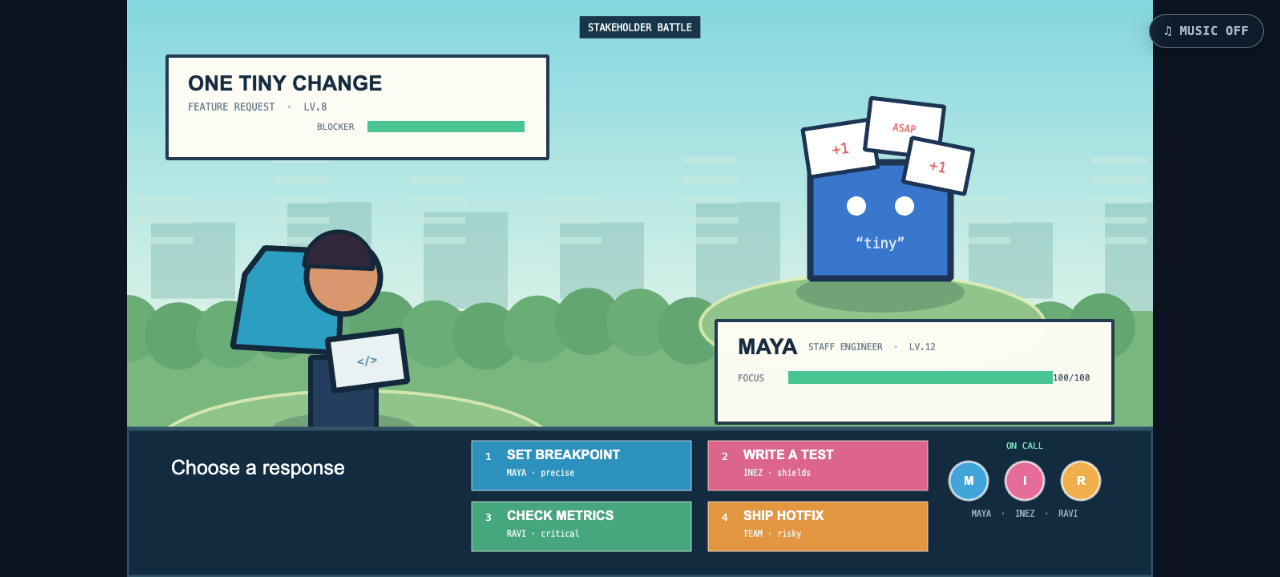
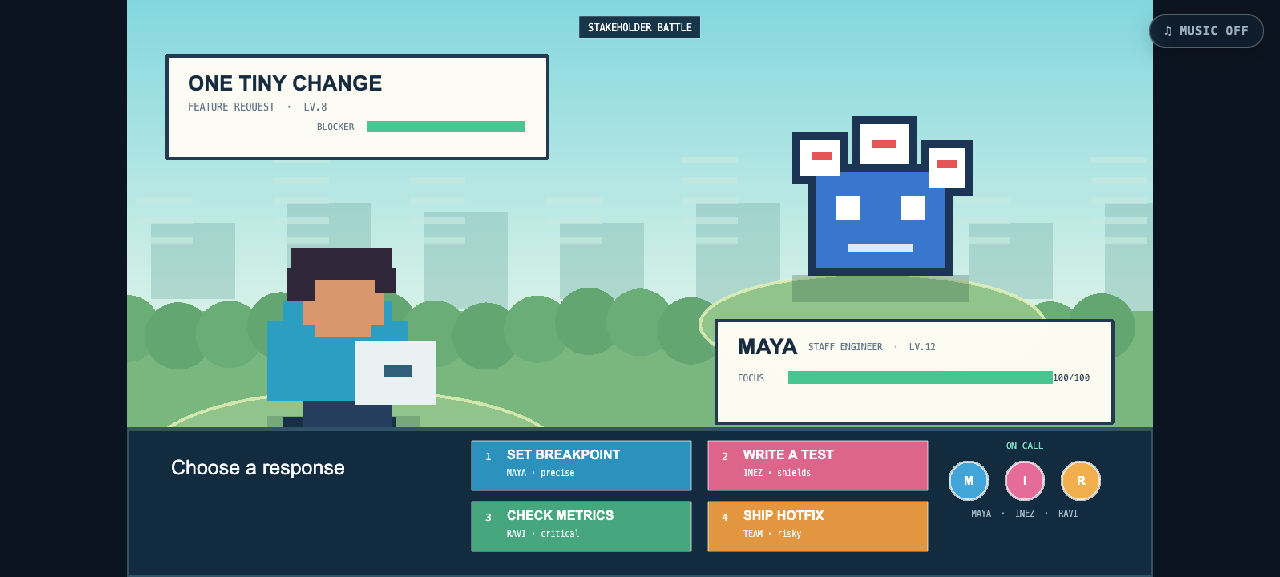
Rework game art in pixel RPG style

diff --git a/sw-rpg/src/main.ts b/sw-rpg/src/main.ts
@@ -126,25 +126,55 @@ function addPill(scene: Phaser.Scene, x: number, y: number, label: string, fill:
 function createTextures(scene: Phaser.Scene) {
   if (scene.textures.exists('hero')) return;
   const g = scene.add.graphics();
-  // Hero: readable modern overworld sprite.
-  g.fillStyle(0x172436).fillEllipse(32, 57, 34, 13);
-  g.fillStyle(0xf2bb8f).fillCircle(32, 22, 13);
-  g.fillStyle(0x343045).fillRoundedRect(19, 8, 27, 12, 6).fillRect(19, 15, 28, 5);
-  g.fillStyle(0x42a5d9).fillRoundedRect(16, 32, 32, 25, 8);
-  g.fillStyle(0xffd35c).fillRect(29, 32, 6, 22);
-  g.fillStyle(0x243c59).fillRoundedRect(18, 53, 12, 14, 4).fillRoundedRect(35, 53, 12, 14, 4);
-  g.fillStyle(0xffffff).fillCircle(27, 21, 2).fillCircle(38, 21, 2);
-  g.generateTexture('hero', 64, 72); g.clear();
-  // Tree.
-  g.fillStyle(0x5c4731).fillRoundedRect(27, 45, 12, 28, 4);
-  g.fillStyle(0x206446).fillCircle(21, 37, 20).fillCircle(43, 35, 20).fillCircle(32, 19, 23);
-  g.fillStyle(0x3e8a57).fillCircle(23, 22, 10).fillCircle(42, 29, 11);
-  g.generateTexture('tree', 68, 76); g.clear();
-  // Tall-code tuft.
-  g.lineStyle(5, 0x2e7f64, 1);
-  g.beginPath().moveTo(8, 35).lineTo(5, 9).moveTo(17, 35).lineTo(20, 5).moveTo(28, 35).lineTo(31, 12).strokePath();
-  g.lineStyle(2, 0x80c97f, 1).beginPath().moveTo(10, 34).lineTo(12, 14).moveTo(25, 34).lineTo(23, 12).strokePath();
-  g.generateTexture('grass', 38, 40); g.destroy();
+  // All character art is authored on a tiny grid, then nearest-neighbor scaled.
+  // Hero (24 × 30).
+  g.fillStyle(0x172436).fillRect(5, 4, 14, 4).fillRect(3, 7, 18, 3);
+  g.fillStyle(0xf2bb8f).fillRect(6, 10, 12, 8).fillRect(8, 18, 8, 2);
+  g.fillStyle(0x26384a).fillRect(7, 12, 3, 2).fillRect(15, 12, 3, 2);
+  g.fillStyle(0x42a5d9).fillRect(4, 20, 16, 7);
+  g.fillStyle(0xffd35c).fillRect(11, 20, 3, 7);
+  g.fillStyle(0x243c59).fillRect(5, 27, 6, 3).fillRect(14, 27, 6, 3);
+  g.generateTexture('hero', 24, 30); g.clear();
+  // Tree (24 × 30).
+  g.fillStyle(0x60452f).fillRect(10, 19, 5, 11);
+  g.fillStyle(0x19563a).fillRect(4, 7, 16, 14).fillRect(7, 3, 11, 20).fillRect(1, 11, 22, 7);
+  g.fillStyle(0x3b8a54).fillRect(7, 5, 7, 5).fillRect(3, 11, 6, 5).fillRect(14, 9, 6, 6);
+  g.generateTexture('tree', 24, 30); g.clear();
+  // Tall-code tuft (12 × 12).
+  g.fillStyle(0x24694f).fillRect(1, 3, 2, 9).fillRect(5, 0, 2, 12).fillRect(9, 4, 2, 8);
+  g.fillStyle(0x69ba70).fillRect(3, 6, 2, 2).fillRect(7, 3, 2, 2);
+  g.generateTexture('grass', 12, 12); g.clear();
+  // Maya's battle backsprite (48 × 52).
+  g.fillStyle(0x183047).fillRect(9, 44, 28, 8);
+  g.fillStyle(0x253e5d).fillRect(14, 31, 22, 16);
+  g.fillStyle(0x2c9ec2).fillRect(5, 20, 35, 20).fillRect(9, 15, 27, 8);
+  g.fillStyle(0xd9976e).fillRect(14, 5, 20, 16).fillRect(17, 21, 14, 3);
+  g.fillStyle(0x30283a).fillRect(11, 2, 25, 8).fillRect(10, 7, 7, 8).fillRect(32, 7, 5, 6);
+  g.fillStyle(0xe9f1f2).fillRect(27, 25, 20, 16);
+  g.fillStyle(0x315f79).fillRect(34, 31, 7, 3);
+  g.generateTexture('dev-back', 48, 52); g.clear();
+  // Null Pointer (40 × 40).
+  g.fillStyle(0x28384a).fillRect(4, 3, 8, 8).fillRect(28, 3, 8, 8).fillRect(5, 13, 30, 23).fillRect(10, 8, 20, 30);
+  g.fillStyle(0xffd35c).fillRect(6, 5, 5, 6).fillRect(29, 5, 5, 6);
+  g.fillStyle(0xf05b4f).fillRect(8, 14, 24, 21).fillRect(12, 10, 16, 27);
+  g.fillStyle(0xffffff).fillRect(12, 18, 5, 5).fillRect(24, 18, 5, 5);
+  g.fillStyle(0x172436).fillRect(14, 20, 2, 2).fillRect(25, 20, 2, 2).fillRect(15, 29, 10, 2);
+  g.generateTexture('enemy-0', 40, 40); g.clear();
+  // Memory Leak (44 × 40).
+  g.fillStyle(0x342c57).fillRect(3, 19, 38, 17).fillRect(7, 10, 30, 28).fillRect(13, 5, 20, 34);
+  g.fillStyle(0x8d63d2).fillRect(5, 20, 34, 15).fillRect(9, 11, 26, 25).fillRect(15, 7, 16, 30);
+  g.fillStyle(0xa779e8).fillRect(9, 15, 8, 8).fillRect(17, 9, 12, 5);
+  g.fillStyle(0xffffff).fillRect(12, 19, 6, 6).fillRect(27, 19, 6, 6);
+  g.fillStyle(0x273247).fillRect(14, 21, 3, 3).fillRect(28, 21, 3, 3).fillRect(18, 30, 10, 2);
+  g.fillStyle(0x7553bd).fillRect(6, 35, 8, 5).fillRect(31, 34, 9, 6);
+  g.generateTexture('enemy-1', 44, 40); g.clear();
+  // One Tiny Change (48 × 44).
+  g.fillStyle(0x1d3554).fillRect(6, 13, 36, 28).fillRect(2, 5, 14, 13).fillRect(17, 1, 16, 15).fillRect(34, 7, 13, 14);
+  g.fillStyle(0x3977cd).fillRect(8, 15, 32, 24);
+  g.fillStyle(0xffffff).fillRect(4, 7, 10, 9).fillRect(19, 3, 12, 10).fillRect(36, 9, 9, 10).fillRect(13, 21, 6, 6).fillRect(29, 21, 6, 6);
+  g.fillStyle(0xe45555).fillRect(7, 10, 5, 2).fillRect(22, 7, 6, 2).fillRect(38, 12, 5, 2);
+  g.fillStyle(0xdbeaff).fillRect(16, 33, 16, 2);
+  g.generateTexture('enemy-2', 48, 44); g.destroy();
 }
 
 class WorldScene extends Phaser.Scene {
@@ -162,7 +192,7 @@ class WorldScene extends Phaser.Scene {
     state.phase = 'overworld'; setStatus('Exploring Route 404. Use arrow keys or WASD to move east.');
     this.physics.world.setBounds(0, 0, 2400, H);
     this.drawMap();
-    this.player = this.physics.add.sprite(330, 410, 'hero').setCollideWorldBounds(true).setDepth(30).setSize(38, 38).setOffset(13, 30);
+    this.player = this.physics.add.sprite(330, 410, 'hero').setScale(2.5).setCollideWorldBounds(true).setDepth(30).setSize(16, 14).setOffset(4, 15);
     this.player.setPosition(state.completed[2] ? 1990 : state.completed[1] ? 1460 : state.completed[0] ? 1010 : 330, 410);
     this.cameras.main.setBounds(0, 0, 2400, H).startFollow(this.player, true, 0.09, 0.09).setZoom(1);
     const keyboard = this.input.keyboard!;
@@ -186,7 +216,7 @@ class WorldScene extends Phaser.Scene {
     // Route grass patches: encounter foreshadowing.
     for (const [cx, cy] of [[770, 330], [850, 500], [1190, 290], [1290, 510], [1530, 300], [1600, 470]]) {
       add.rectangle(cx, cy, 150, 86, 0x74b96e, 0.7).setStrokeStyle(3, 0x5ba45f).setDepth(-14);
-      for (let i = 0; i < 9; i++) add.image(cx - 55 + (i % 5) * 27, cy - 25 + Math.floor(i / 5) * 45, 'grass').setScale(0.7).setDepth(-12);
+      for (let i = 0; i < 9; i++) add.image(cx - 55 + (i % 5) * 27, cy - 25 + Math.floor(i / 5) * 45, 'grass').setScale(2.4).setDepth(-12);
     }
     // Water and bridges at the lower edge.
     add.rectangle(1200, 674, 2400, 92, 0x58b8d5).setDepth(-17);
@@ -200,7 +230,7 @@ class WorldScene extends Phaser.Scene {
     this.building(2070, 500, 215, 120, 0x58ad8c, 'CLOUD 9');
     // Trees lining route.
     for (const [x, y] of [[580,160],[660,230],[760,145],[885,200],[1000,130],[1130,170],[1270,145],[1400,180],[1530,140],[1680,180],[1790,150],[610,570],[720,610],[960,580],[1100,610],[1430,590],[1590,585],[1760,570]]) {
-      add.image(x, y, 'tree').setDepth(y);
+      add.image(x, y, 'tree').setScale(3).setDepth(y);
     }
     // City labels and route signs.
     this.sign(385, 500, 'STARTUP CITY', 'Population: pivoting');
@@ -381,49 +411,21 @@ class BattleScene extends Phaser.Scene {
   }
 
   private drawCombatants() {
-    this.enemyArt = this.makeEnemy(940, 250, state.encounter).setScale(.2).setAlpha(0);
+    this.enemyArt = this.makeEnemy(940, 258, state.encounter).setScale(.2).setAlpha(0);
     this.tweens.add({ targets: this.enemyArt, scale: 1, alpha: 1, duration: 480, ease: 'Back.out' });
     const dev = this.add.container(270, 438).setDepth(10);
-    const shadow = this.add.ellipse(0, 98, 180, 42, 0x173b43, .25);
-    const legs = this.add.rectangle(0, 58, 82, 100, 0x253e5d).setStrokeStyle(6, 0x14283c);
-    const hoodie = this.add.polygon(0, 5, [-70,55,-55,-35,-30,-68,32,-65,66,-27,62,63], 0x2c9ec2).setStrokeStyle(7, 0x14283c);
-    const head = this.add.circle(0, -92, 46, 0xd9976e).setStrokeStyle(7, 0x14283c);
-    const hair = this.add.arc(-6, -106, 43, 180, 365, false, 0x30283a).setStrokeStyle(5, 0x14283c);
-    const laptop = this.add.rectangle(30, 12, 92, 64, 0xe9f1f2).setStrokeStyle(7, 0x14283c).setRotation(-.13);
-    const logo = this.add.text(30, 12, '</>', monoStyle(14, '#2c6e8e')).setOrigin(.5).setRotation(-.13);
-    dev.add([shadow, legs, hoodie, head, hair, laptop, logo]);
-    this.tweens.add({ targets: dev, y: 430, duration: 1100, yoyo: true, repeat: -1, ease: 'Sine.inOut' });
+    const shadow = this.add.rectangle(0, 105, 190, 32, 0x315f4d, .28);
+    const sprite = this.add.image(0, 0, 'dev-back').setScale(5);
+    dev.add([shadow, sprite]);
+    this.tweens.add({ targets: dev, y: 430, duration: 800, yoyo: true, repeat: -1, ease: 'Stepped' });
   }
 
   private makeEnemy(x: number, y: number, kind: number) {
     const c = this.add.container(x, y).setDepth(8);
-    const shadow = this.add.ellipse(0, 120, 210, 50, 0x143c43, .25);
-    if (kind === 0) {
-      const body = this.add.circle(0, 25, 86, this.encounter.color).setStrokeStyle(8, 0x28384a);
-      const ears = this.add.polygon(-65, -40, [-28,0,0,-55,24,8], this.encounter.accent).setStrokeStyle(7, 0x28384a);
-      const ear2 = this.add.polygon(65, -40, [-24,8,0,-55,28,0], this.encounter.accent).setStrokeStyle(7, 0x28384a);
-      const eyes = [this.add.circle(-28, 5, 11, 0xffffff), this.add.circle(28, 5, 11, 0xffffff), this.add.circle(-27, 7, 5, 0x172436), this.add.circle(27, 7, 5, 0x172436)];
-      const symbol = this.add.text(0, 50, 'null', monoStyle(22, '#6b2429')).setOrigin(.5);
-      c.add([shadow, ears, ear2, body, ...eyes, symbol]);
-    } else if (kind === 1) {
-      const blobs = [this.add.circle(-55, 48, 60, 0x7553bd), this.add.circle(48, 40, 72, 0x8d63d2), this.add.circle(0, -5, 82, 0x9a70dc)];
-      blobs.forEach(b => b.setStrokeStyle(7, 0x342c57));
-      const eyes = [this.add.circle(-27, -13, 13, 0xffffff), this.add.circle(30, -13, 13, 0xffffff), this.add.circle(-27, -11, 6, 0x273247), this.add.circle(30, -11, 6, 0x273247)];
-      const drips = [this.add.circle(-74, 98, 24, 0x7553bd), this.add.circle(72, 104, 28, 0x8d63d2)];
-      const text = this.add.text(0, 55, '8.6 GB', monoStyle(16, '#e8dfff')).setOrigin(.5);
-      c.add([shadow, ...blobs, ...drips, ...eyes, text]);
-    } else {
-      // A many-headed feature request emerging from Alex's phone.
-      const body = this.add.rectangle(0, 30, 175, 145, 0x3977cd).setStrokeStyle(8, 0x1d3554);
-      const card1 = this.add.rectangle(-50, -60, 86, 60, 0xffffff).setStrokeStyle(5, 0x1d3554).setRotation(-.15);
-      const card2 = this.add.rectangle(30, -85, 92, 65, 0xffffff).setStrokeStyle(5, 0x1d3554).setRotation(.12);
-      const card3 = this.add.rectangle(72, -38, 78, 56, 0xffffff).setStrokeStyle(5, 0x1d3554).setRotation(.2);
-      const marks = [-50, 30, 72].map((px, i) => this.add.text(px, [-60,-85,-38][i], i === 1 ? 'ASAP' : '+1', monoStyle(i === 1 ? 12 : 18, '#e45555')).setOrigin(.5).setRotation([-.15,.12,.2][i]));
-      const eye1 = this.add.circle(-30, 12, 12, 0xffffff), eye2 = this.add.circle(30, 12, 12, 0xffffff);
-      const mouth = this.add.text(0, 58, '“tiny”', monoStyle(17, '#dbeaff')).setOrigin(.5);
-      c.add([shadow, body, card1, card2, card3, ...marks, eye1, eye2, mouth]);
-    }
-    this.tweens.add({ targets: c, y: y - 8, duration: 900, yoyo: true, repeat: -1, ease: 'Sine.inOut' });
+    const shadow = this.add.rectangle(0, 110, 220, 34, 0x315f4d, .3);
+    const sprite = this.add.image(0, 0, `enemy-${kind}`).setScale(5);
+    c.add([shadow, sprite]);
+    this.tweens.add({ targets: c, y: y - 8, duration: 720, yoyo: true, repeat: -1, ease: 'Stepped' });
     return c;
   }
 
@@ -571,12 +573,12 @@ const game = new Phaser.Game({
   width: W,
   height: H,
   backgroundColor: '#10273a',
-  pixelArt: false,
-  antialias: true,
+  pixelArt: true,
+  antialias: false,
   physics: { default: 'arcade', arcade: { debug: false } },
   scale: { mode: Phaser.Scale.FIT, autoCenter: Phaser.Scale.CENTER_BOTH },
   scene: [WorldScene, BattleScene, EndScene],
-  render: { roundPixels: true }
+  render: { pixelArt: true, antialias: false, antialiasGL: false, roundPixels: true }
 });
 
 // Small, stable hooks for automated playtesting.

diff --git a/sw-rpg/src/style.css b/sw-rpg/src/style.css
@@ -10,7 +10,10 @@ body {
   display: grid;
   place-items: center;
 }
-canvas { display: block; width: 100% !important; height: 100% !important; object-fit: contain; }
+canvas {
+  display: block; width: 100% !important; height: 100% !important; object-fit: contain;
+  image-rendering: pixelated; image-rendering: crisp-edges;
+}
 #music-toggle {
   position: fixed; z-index: 10; top: max(14px, env(safe-area-inset-top)); right: max(16px, env(safe-area-inset-right));
   border: 1px solid rgba(255,255,255,.28); border-radius: 999px; padding: 9px 14px;
